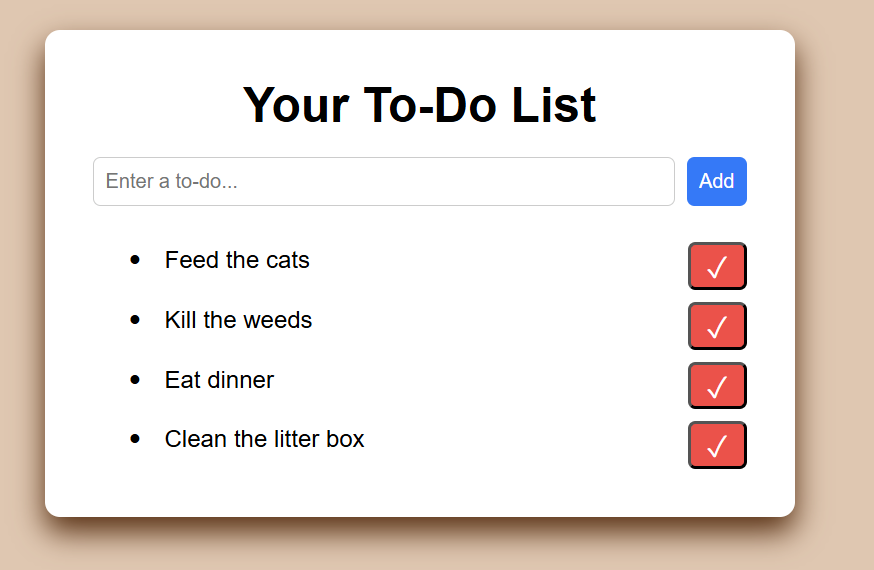
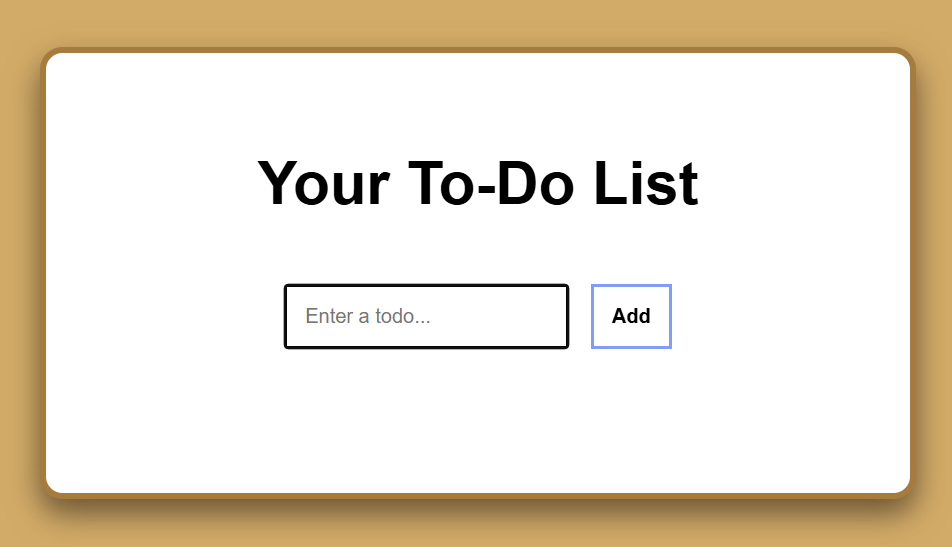
second iteration

diff --git a/style.css b/style.css
@@ -6,58 +6,77 @@
 
 body {
     font-family: Arial, sans-serif;
-    background: rgb(228, 198, 174);
+    background: rgb(219, 169, 93);
+    color: black;
     display: flex;
+    padding: 3rem;
     justify-content: center;
-    padding: 2rem
 }
 
 .container {
     background: white;
-    padding: 2rem;
-    border-radius: 10px;
+    padding: 4rem 6rem;
+    border-radius: 15px;
+    border: 4px solid rgb(173, 121, 49);
+    box-shadow: 0 10px 20px rgba(0,0,0,0.5);
     width: 100%;
-    max-width: 500px;
-    box-shadow: 0 10px 20px rgb(94, 44, 9);
+    max-width: 750px
 }
+
+.container:hover {
+    transform: translateY(-2.5px);
+    box-shadow: 0 20px 40px rgb(61, 44, 5);
+    transition: 1s ease;
+} 
 
 .container h1 {
     text-align: center;
+    font-size: 2.5rem;
+}
+
+.container p {
+    text-align: center;
+    font-size: 1.5rem;
+    font-weight: bold;
+    color: rgb(255, 255, 255);
     margin-bottom: 1rem;
+}
+
+.container p:hover {
+    color: rgb(214, 214, 214);
+    transition: 2.5s ease;
 }
 
 .input-area {
-    display: flex;
-    gap: 0.5rem;
-    margin-bottom: 1rem;
+    text-align: center;
+    margin-top: 1rem;
+    margin-bottom: 2rem;
 }
 
-#task-input {
-    flex: 1;
-    padding: 0.5rem;
-    border: 1px solid #ccc;
-    border-radius: 5px;
+#input-box {
+    padding: .75rem;
+    border: 2px solid black;
 }
 
-#task-input:hover {
-    box-shadow: 0 10px 20px rgba(0,0,0,0.3);
-    transition: 1.5s ease;
+#input-box:hover {
+  transform: scale(1.05);
+  background-color: rgb(237, 237, 237);
+  transition: 0.05s ;
 }
 
 #add-button {
-    padding: 0.5rem;
-    background: #007bff;
-    color:white;
-    border: none;
-    border-radius: 5px;
-    cursor: pointer
+    margin-left: 10px;
+    padding: .75rem;
+    font-weight: bold;
+    border: 2px solid rgb(122, 158, 255);
+    background: rgb(255, 255, 255);
 }
 
 #add-button:hover {
-    outline: 5px solid #007bff;
-    background: white;
-    color: #007bff;
-    transition: 0.3s ease;
+    background: rgb(17, 81, 255);
+    color: white;
+    border: 8px solid rgb(17, 81, 255);
+    transition: .3s ease;
 }
 
 ul {
@@ -67,15 +86,14 @@ ul {
 
 li {
     position: relative;
-    padding-left: 1.5rem;
+    padding-left: 2rem;
     display: flex;
     justify-content: space-between;
     align-items: center;
-
 }
 
 li::before {
-    content: "•";
+    content: "▶";
     position: absolute;
     left: 0;
     color: black;
@@ -84,7 +102,7 @@ li::before {
 }
 
 li.completed span {
-    text-decoration: line-through;
+    text-decoration: none;
     color: gray;
 }
 
@@ -103,5 +121,5 @@ li button:hover {
     border: 2px solid rgb(255, 65, 65);
     background: white;
     color: rgb(255, 65, 65);;
-    transition: .3s ease;
 }
+

diff --git a/index.html b/index.html
@@ -1,21 +1,27 @@
 <!DOCTYPE html>
 <html lang="en">
+    <!-- Program Head -->
     <head>
-        <meta charset="UTF-8"/>
-        <meta name="viewport" content="width=device-width, initial-scale=1.0"/>
+        <meta charset="UTF-8" />
+        <meta name="viewport" content="width=device-width, initial-scale=1.0" />
         <link rel="stylesheet" href="style.css" />
         <link rel="icon" href="checkmark.png" />
-        <title>To-Do</title>
+        <title>2Do List</title>  
     </head>
+    <!-- Program Body -->
     <body>
         <div class="container">
             <h1>Your To-Do List</h1>
+            <p>What are you up to today...?</p>
+            <!-- seperate  container for input -->
             <div class="input-area">
-                <input id="task-input" type="text" placeholder="Enter a to-do..." />
+                <input id="input-box" type="text" placeholder="Enter a todo..." />
                 <button id="add-button">Add</button>
             </div>
+            <!-- unordered list for to-do list items -->
             <ul id="task-list"></ul>
         </div>
     </body>
+    <!-- Scropt for to-dp list put below body -->
     <script src="script.js"></script>
 </html>

diff --git a/script.js b/script.js
@@ -1,8 +1,8 @@
-const addBtn = document.getElementById("add-button");
-const taskInput = document.getElementById("task-input");
+const addButton = document.getElementById("add-button");
+const taskInput = document.getElementById("input-box");
 const taskList = document.getElementById("task-list");
 
-addBtn.addEventListener("click", addTask);
+addButton.addEventListener("click", addTask);
 
 function addTask() {
     const taskText = taskInput.value.trim();
@@ -12,20 +12,18 @@ function addTask() {
     const span = document.createElement("span");
 
     span.textContent = taskText;
-    
-    span.addEventListener("click", ()=> {
+
+    span.addEventListener("click", () => {
         li.classList.toggle("completed");
     });
 
-    const delBtn = document.createElement("button");
-    delBtn.textContent = "✓";
-    delBtn.addEventListener("click", ()=> li.remove());
+    const deleteButton = document.createElement("button");
+    deleteButton.textContent = "✓";
+    deleteButton.addEventListener("click", () => li.remove());
 
     li.appendChild(span);
-    li.appendChild(delBtn);
+    li.appendChild(deleteButton);
     taskList.appendChild(li);
 
     taskInput.value = "";
 }
-
-
